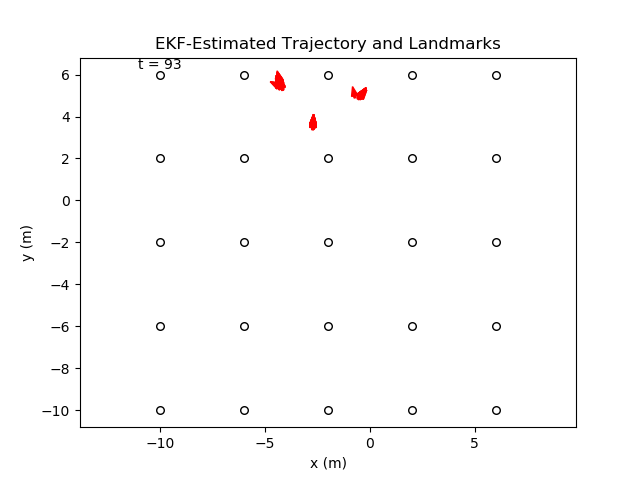
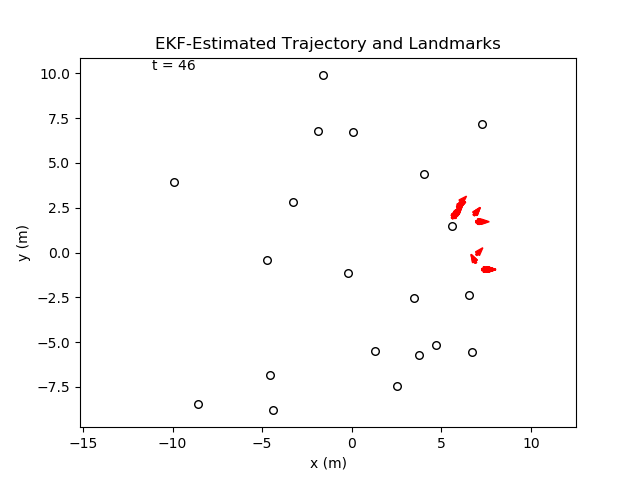
Allow map generation type to be set with command line param.

diff --git a/ekf_ws/src/data_pkg/src/data_fwd_node.py b/ekf_ws/src/data_pkg/src/data_fwd_node.py
@@ -15,7 +15,7 @@ from math import pi, atan2, remainder, tau, cos, sin
 import numpy as np
 
 ############ GLOBAL VARIABLES ###################
-USE_RSS_DATA = False # T = use demo set. F = randomize map and create new traj.
+USE_RSS_DATA = False # T = use demo dataset. F = randomize map and create new traj.
 DT = 0.05 # timer period used if cmd line param not provided.
 odom_pub = None; lm_pub = None; true_map_pub = None; true_pose_pub = None
 pkg_path = None # filepath to this package.
@@ -26,17 +26,6 @@ demo_map = { 0 : (6.2945, 8.1158), 1 : (-7.4603, 8.2675), 2 : (2.6472, -8.0492),
         11: (6.9826, 8.6799), 12: (3.5747, 5.1548), 13: (4.8626, -2.1555), 14: (3.1096, -6.5763),
         15: (4.1209, -9.3633), 16: (-4.4615, -9.0766), 17: (-8.0574, 6.4692), 18: (3.8966, -3.6580), 19: (9.0044, -9.3111) }
 #################################################
-
-def main_loop(event):
-    # send stuff to the EKF for testing.
-    odom_msg = Vector3()
-    odom_msg.x = 0.1
-    odom_msg.y = 0.1
-    odom_pub.publish(odom_msg)
-    lm_msg = Float32MultiArray()
-    lm_msg.data = [1, 0.5, 0.7, 4, 1.2, -0.9]
-    lm_pub.publish(lm_msg)
-
 
 def read_rss_data():
     """
@@ -86,7 +75,7 @@ def norm(l1, l2):
     return ((l1[0]-l2[0])**2 + (l1[1]-l2[1])**2)**(1/2) 
 
 
-def generate_data():
+def generate_data(map_type:str):
     """
     Create a set of 20 landmarks forming the map.
     Choose a trajectory through the space that will
@@ -109,10 +98,9 @@ def generate_data():
         else:
             rospy.logwarn("NUM_LANDMARKS must match length of demo_map to use it.")
     # make new map if the demo hasn't been set.
-    USE_GRID_MAP = True
     if len(landmarks.keys()) < 1:
         id = 0
-        if not USE_GRID_MAP:
+        if map_type == "random":
             # randomly spread landmarks across the map.
             while len(landmarks.keys()) < NUM_LANDMARKS:
                 pos = (2*BOUND*random() - BOUND, 2*BOUND*random() - BOUND)
@@ -120,7 +108,7 @@ def generate_data():
                 if True not in dists:
                     landmarks[id] = pos
                     id += 1
-        else:
+        elif map_type == "grid":
             # place landmarks on a grid filling the bounds.
             GRID_STEP = 4
             id = 0
@@ -130,6 +118,9 @@ def generate_data():
                     id += 1
             # update number of landmarks used.
             NUM_LANDMARKS = id
+        else:
+            rospy.logerr("Invalid map_type provided.")
+            exit()
     
     ############# GENERATE TRAJECTORY ###################
     NUM_TIMESTEPS = 1000
@@ -148,12 +139,11 @@ def generate_data():
     odom_dist = []; odom_hdg = []
     """
     We will use travelling salesman problem (TSP) - 
-    nearest neighbors approach to find an efficient path.
-    NOTE: We'll add noise to landmarks, but this method of
+    nearest neighbors approach to find a path.
+    We'll add noise to landmarks, but this method of
     trajectory generation assumes we have a rough idea of 
     where all landmarks are. The EKF doesn't get this info,
-    so it is still performing fully blind EKF SLAM, but
-    the trajectory planner is a knowing helper.
+    so it is still performing fully blind EKF-SLAM.
     """
     # make noisy version of rough map to use.
     LM_NOISE = 0.2
@@ -305,14 +295,22 @@ def main():
     global lm_pub, odom_pub, pkg_path, DT, true_map_pub, true_pose_pub
     rospy.init_node('data_fwd_node')
 
-    # read DT from command line arg.
+    # read DT and map_type from command line arg.
     try:
+        # get map type.
+        if len(sys.argv) < 3:
+            rospy.logwarn("Map type not provided to data_fwd_node. Using random. Options are [random, grid]")
+            map_type = "random"
+        else:
+            map_type = sys.argv[2]
+        
+        # get dt.
         if len(sys.argv) < 2 or sys.argv[1] == "-1":
             rospy.logwarn("DT not provided to data_fwd_node. Using DT="+str(DT))
         else:
             DT = float(sys.argv[1])
             if DT <= 0:
-                raise Exception("Negative DT issued.")
+                raise Exception("DT must be positive.")
     except:
         rospy.logerr("DT param must be a positive float.")
         exit()
@@ -335,9 +333,7 @@ def main():
         read_rss_data()
     else:
         # create data in same format.
-        generate_data()
-        # run the main loop.
-        # rospy.Timer(rospy.Duration(DT), main_loop)
+        generate_data(map_type)
 
     rospy.spin()
 
